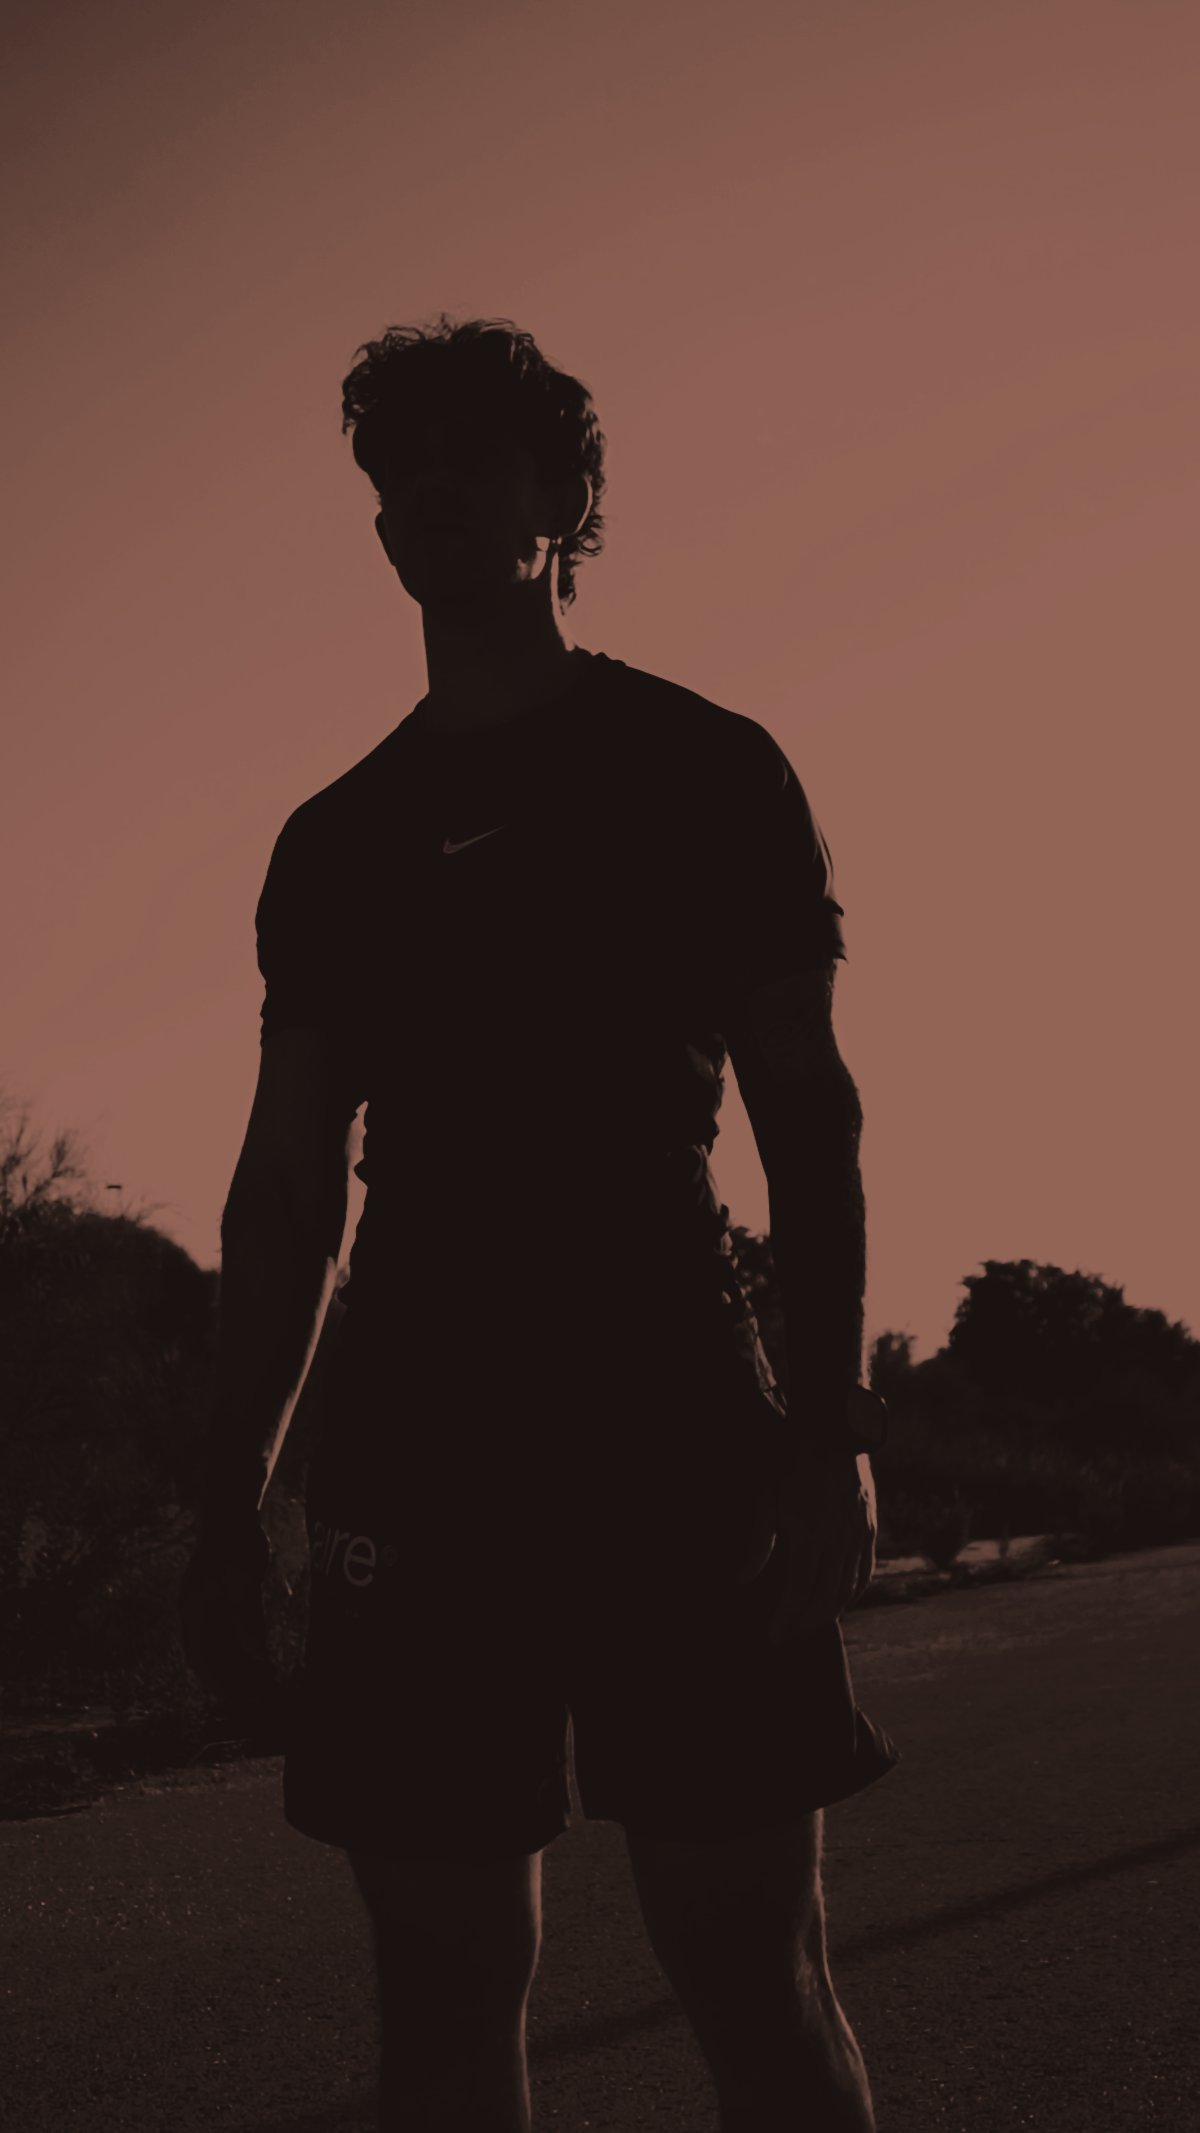
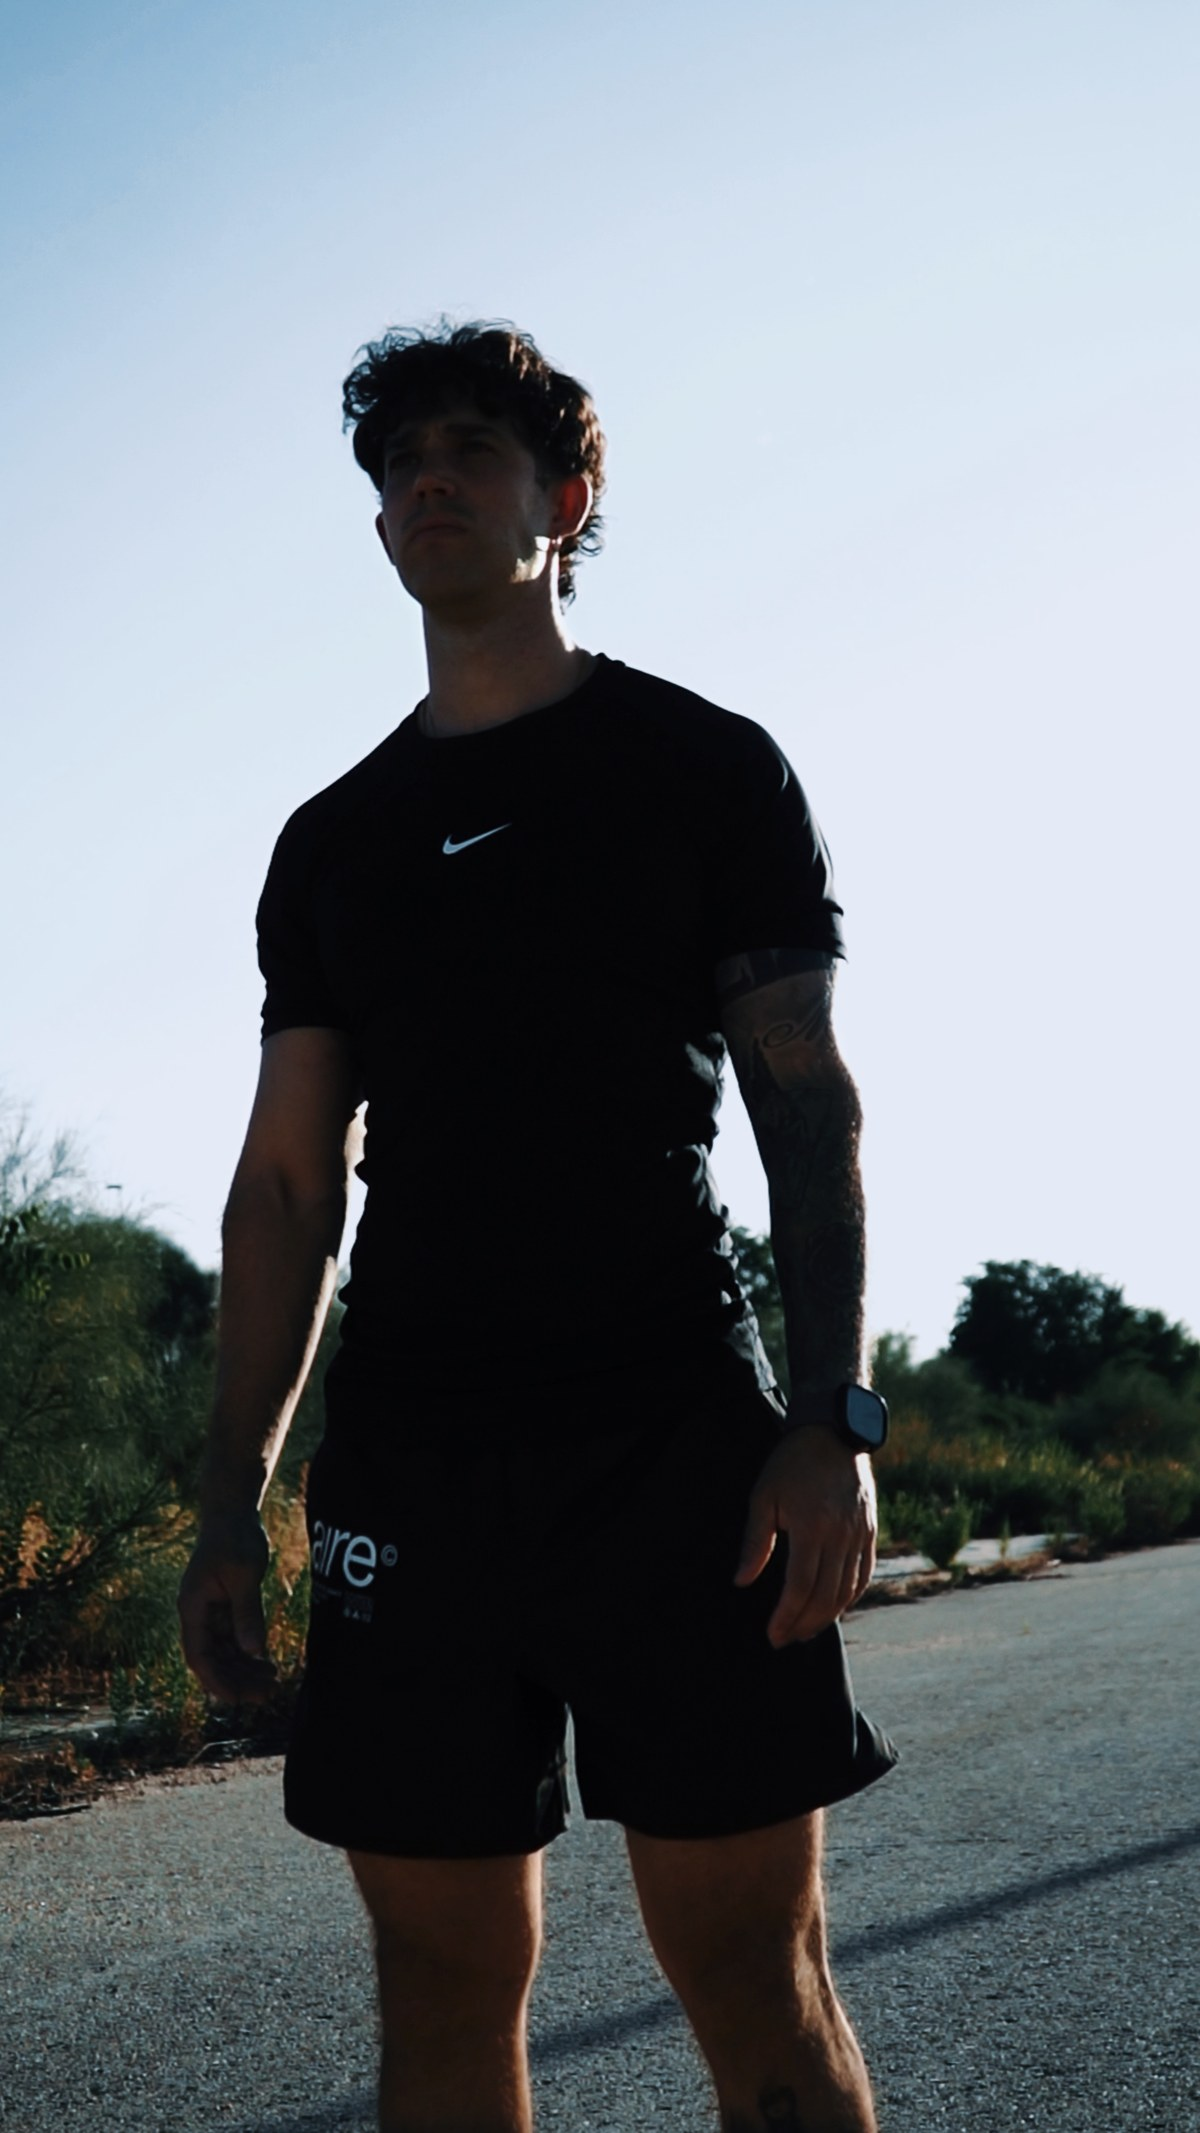
Ajustar encuadre de Cardio y Movilidad, quitar filtro a la foto del entrenador y engrosar borde de títulos

diff --git a/src/style.css b/src/style.css
@@ -303,10 +303,13 @@ body {
 
 .chapter--cardio {
   background-image: linear-gradient(180deg, rgba(46, 33, 29, 0.45), rgba(46, 33, 29, 0.65)), url('/images/cardio-bg.jpg');
+  background-position: center, center 160px;
 }
 
 .chapter--movilidad {
   background-image: linear-gradient(180deg, rgba(46, 33, 29, 0.45), rgba(46, 33, 29, 0.65)), url('/images/movilidad-bg.jpg');
+  background-size: cover, 100% 100%;
+  background-position: center, center;
 }
 
 .chapter--comunidad {
@@ -328,7 +331,7 @@ body {
   text-transform: uppercase;
   margin: 0;
   color: #f3ece2;
-  -webkit-text-stroke: 2px #000000;
+  -webkit-text-stroke: 4px #000000;
   paint-order: stroke fill;
 }
 
